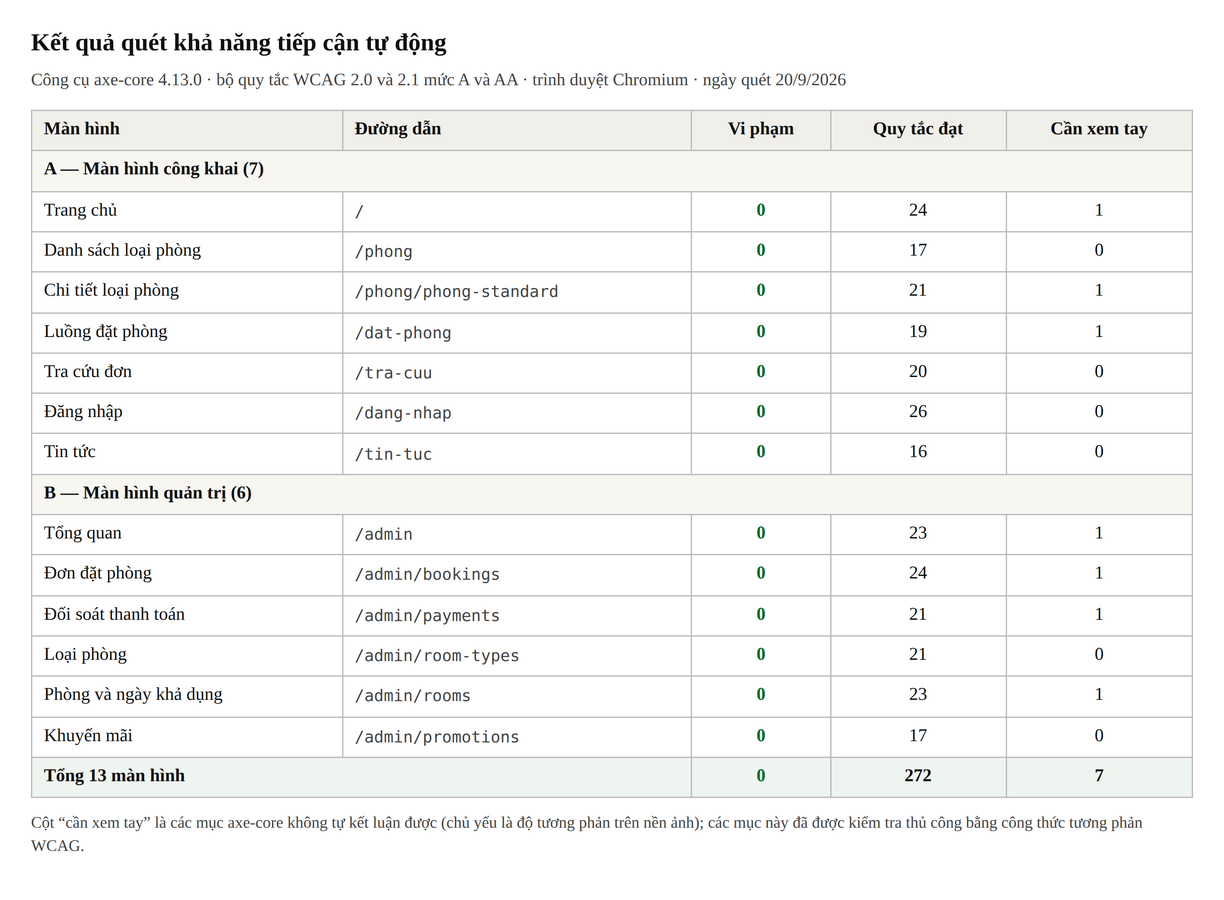
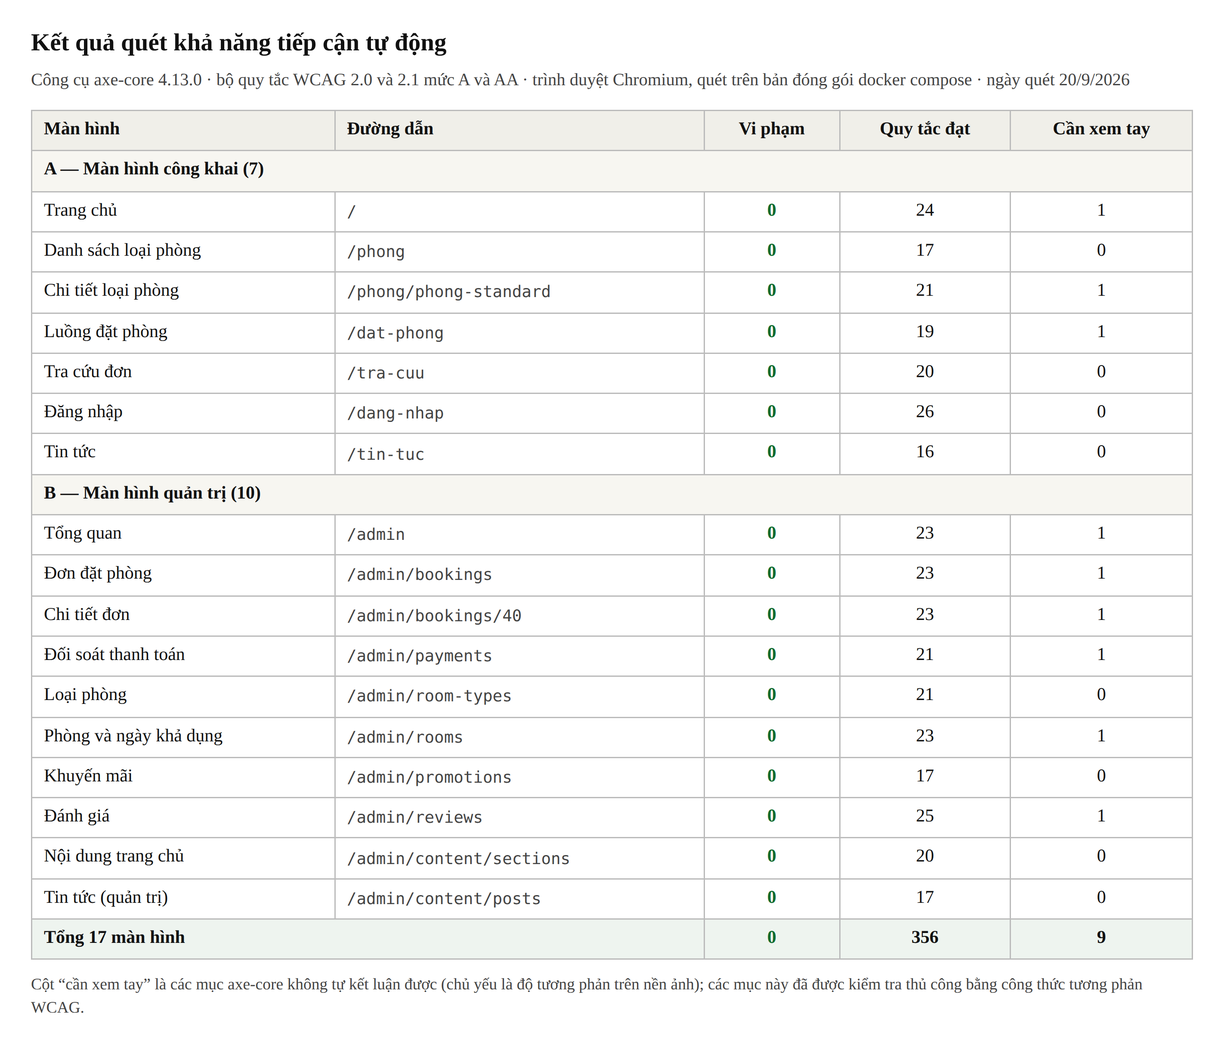
fix(admin): mo duoc chi tiet moi don, va dat ten cho o chon tep anh
Hai loi tim ra trong luc chup anh man hinh cho bao cao.

1. Danh sach don ghi "Bam vao ma don de mo chi tiet" nhung o ma don la o
   bang thuong. Chi mot lien ket vi du duoi bang mo duoc don DAU TIEN;
   muoi chin don con lai tren trang khong co loi vao nao. Them truong
   link tuy chon cho TableColumn cua ui-data-table: cot nao khong khai
   link giu nguyen nhu cu, cot co khai render the a that — di duoc bang
   Tab, trinh doc man hinh doc ra la lien ket, chuot giua mo tab moi.

2. O chon tep cua image-picker an bang sr-only nhung van nam trong thu tu
   Tab, thanh mot diem dung khong ten. axe-core bao loi label muc critical
   o bon cho tren man hinh noi dung trang chu. Bo o khoi thu tu Tab va dat
   aria-label; nut "Tai anh len" nhin thay duoc van la loi vao that.

Kiem chung tren ban dong goi dang chay, di qua nginx va CSP that:

- 20/20 ma don thanh the a co href; bam hang thu ba mo dung don thu ba.
- Quet axe-core 17 man hinh (7 cong khai, 10 quan tri): 0 vi pham WCAG
  2.0 va 2.1 muc A va AA, 356 lan quy tac dat. Truoc khi sua la 1 vi pham
  critical x4.
- npm run lint va npm run build deu sach.

Cap nhat muc 4.3 cua bao cao len muoi mot loi, muc 4.4.1 len 17 man hinh,
va sua mot cau mo ta sai Hinh 3.19.

Claude-Session: https://claude.ai/code/session_01AEgUuwxWZb75UPoWigF6iK

diff --git a/frontend/src/app/features/admin/bookings/admin-bookings.ts b/frontend/src/app/features/admin/bookings/admin-bookings.ts
@@ -1,5 +1,5 @@
 import { ChangeDetectionStrategy, Component, computed, inject, signal } from '@angular/core';
-import { ActivatedRoute, Router, RouterLink } from '@angular/router';
+import { ActivatedRoute, Router } from '@angular/router';
 import { AdminBookingService, type BookingFilter } from '../../../core/services/admin-booking.service';
 import type { AdminBookingRow, Page } from '../../../core/services/admin.types';
 import {
@@ -38,7 +38,7 @@ const MONEY = new Intl.NumberFormat('vi-VN', { maximumFractionDigits: 0 });
 @Component({
   selector: 'app-admin-bookings',
   changeDetection: ChangeDetectionStrategy.OnPush,
-  imports: [RouterLink, UiDataTable, UiFilterChips, UiPagination, UiSelect, UiInput, UiButton],
+  imports: [UiDataTable, UiFilterChips, UiPagination, UiSelect, UiInput, UiButton],
   template: `
     <div class="mb-4 flex flex-wrap items-end justify-between gap-3">
       <h1 class="text-xl font-bold text-text">Đơn đặt phòng</h1>
@@ -89,14 +89,7 @@ const MONEY = new Intl.NumberFormat('vi-VN', { maximumFractionDigits: 0 });
       }
     }
 
-    <p class="mt-3 text-sm text-text-muted">
-      Bấm vào mã đơn để mở chi tiết.
-      @if (rows().length) {
-        <a
-          [routerLink]="['/admin/bookings', rows()[0].id]"
-          class="ml-1 text-focus underline">Ví dụ: {{ rows()[0].code }}</a>
-      }
-    </p>
+    <p class="mt-3 text-sm text-text-muted">Bấm vào mã đơn để mở chi tiết đơn.</p>
   `,
 })
 export class AdminBookings {
@@ -120,7 +113,14 @@ export class AdminBookings {
   );
 
   protected readonly columns: TableColumn<AdminBookingRow>[] = [
-    { key: 'code', header: 'Mã đơn', value: (row) => row.code },
+    {
+      key: 'code',
+      header: 'Mã đơn',
+      value: (row) => row.code,
+      // Dòng chữ dưới bảng nói "bấm vào mã đơn để mở chi tiết"; đây là thứ làm
+      // câu đó đúng cho MỌI hàng, không chỉ hàng đầu.
+      link: (row) => ['/admin/bookings', row.id],
+    },
     { key: 'guest', header: 'Khách', value: (row) => `${row.guestName} · ${row.guestPhone}` },
     { key: 'roomType', header: 'Loại phòng', value: (row) => row.roomTypeName },
     { key: 'stay', header: 'Lưu trú', value: (row) => `${row.checkIn} → ${row.checkOut}` },

diff --git a/frontend/src/app/shared/ui/data-table/data-table.ts b/frontend/src/app/shared/ui/data-table/data-table.ts
@@ -1,4 +1,5 @@
 import { ChangeDetectionStrategy, Component, computed, input, output } from '@angular/core';
+import { RouterLink } from '@angular/router';
 import { UiSkeleton } from '../skeleton/skeleton';
 import { UiEmptyState } from '../empty-state/empty-state';
 
@@ -10,6 +11,14 @@ export interface TableColumn<T> {
   sortable?: boolean;
   /** Căn phải cho cột số — mắt so sánh số theo hàng đơn vị, không theo chữ đầu. */
   numeric?: boolean;
+  /**
+   * Biến ô thành liên kết tới tuyến trong ứng dụng.
+   *
+   * <p>Là một thẻ `<a>` thật chứ không phải ô bắt sự kiện bấm: người dùng bàn
+   * phím tới được bằng Tab, trình đọc màn hình đọc ra là liên kết, và mở tab
+   * mới bằng chuột giữa vẫn chạy. Ô nào không khai `link` giữ nguyên như cũ.
+   */
+  link?: (row: T) => readonly unknown[];
 }
 
 export interface SortState {
@@ -33,7 +42,7 @@ export interface SortState {
 @Component({
   selector: 'ui-data-table',
   changeDetection: ChangeDetectionStrategy.OnPush,
-  imports: [UiSkeleton, UiEmptyState],
+  imports: [UiSkeleton, UiEmptyState, RouterLink],
   template: `
     @if (error(); as message) {
       <div class="rounded-md border border-danger bg-surface p-4" role="alert">
@@ -93,9 +102,15 @@ export interface SortState {
                          hover:bg-surface-2">
                   @for (column of columns(); track column.key) {
                     <td
-                      tabindex="0"
+                      [attr.tabindex]="column.link ? null : 0"
                       [class]="cellClass() + ' ' + (column.numeric ? 'text-right tabular-nums' : '')">
-                      {{ column.value(row) }}
+                      @if (column.link; as target) {
+                        <a [routerLink]="target(row)" class="text-focus underline">
+                          {{ column.value(row) }}
+                        </a>
+                      } @else {
+                        {{ column.value(row) }}
+                      }
                     </td>
                   }
                 </tr>

diff --git a/frontend/src/app/features/admin/content/image-picker.ts b/frontend/src/app/features/admin/content/image-picker.ts
@@ -33,11 +33,18 @@ export interface PickedImage {
         (valueChange)="onUrlTyped($event)" />
 
       <div class="flex flex-wrap items-center gap-2">
+        <!-- Ô chọn tệp thật bị ẩn vì nút bên dưới mới là thứ người dùng thấy.
+             Ẩn bằng sr-only KHÔNG đủ: ô vẫn nằm trong thứ tự Tab, nên người
+             dùng bàn phím gặp hai điểm dừng cho một việc, và điểm dừng ẩn đó
+             không có tên để trình đọc màn hình đọc ra. tabindex="-1" bỏ nó
+             khỏi thứ tự Tab, aria-label đặt tên cho những lối vào còn lại. -->
         <input
           #file
           type="file"
           accept="image/jpeg,image/png,image/webp"
           class="sr-only"
+          tabindex="-1"
+          [attr.aria-label]="'Chọn tệp ảnh cho ' + label()"
           (change)="upload($event)" />
         <ui-button variant="secondary" [loading]="uploading()" (pressed)="file.click()">
           Tải ảnh lên

diff --git a/docs/bao-cao/04a-chuong-3-thiet-ke.md b/docs/bao-cao/04a-chuong-3-thiet-ke.md
@@ -33,75 +33,11 @@ Hình 3.1 thể hiện biểu đồ use case tổng quát của hệ thống.
 
 ### 3.1.3. Đặc tả use case
 
-Hai use case trọng tâm được đặc tả đầy đủ dưới đây theo khuôn mẫu: tác nhân,
-tiền điều kiện, luồng chính, luồng thay thế, hậu điều kiện. Đặc tả của chín use
-case còn lại trình bày ở Phụ lục A.
-
----
-
-### UC1 — Tìm phòng trống
-
-| Mục | Nội dung |
-|---|---|
-| **Mã** | UC1 |
-| **Tác nhân chính** | Khách vãng lai, Khách có tài khoản |
-| **Mô tả** | Khách tìm các loại phòng còn chỗ trong một khoảng ngày |
-| **Tiền điều kiện** | Có ít nhất một loại phòng đang bật bán |
-| **Hậu điều kiện** | Không có dữ liệu nào được ghi; đây là truy vấn chỉ đọc |
-
-**Luồng sự kiện chính**
-
-1. Khách mở trang chủ; thanh tìm phòng nạp sẵn lịch của toàn homestay.
-2. Khách chọn ngày nhận và ngày trả. Ngày quá khứ và ngày đã kín mọi loại phòng
-   bị chặn ngay trong lịch, không cho chọn.
-3. Khách chọn số người lớn, trẻ em, số phòng.
-4. Hệ thống truy vấn và trả về các loại phòng còn chỗ, kèm tổng tiền cả kỳ và số
-   phòng còn lại của từng loại.
-
-**Luồng thay thế**
-
-- *2a. Lịch không tải được:* khách vẫn chọn được ngày; mất phần chặn trước, tầng
-  máy chủ vẫn từ chối ngày kín ở bước sau.
-- *4a. Không loại phòng nào đủ chỗ:* hiện trạng thái rỗng kèm gợi ý đổi ngày
-  hoặc giảm số khách mỗi phòng.
-
----
-
-### UC2 — Đặt phòng
-
-| Mục | Nội dung |
-|---|---|
-| **Mã** | UC2 |
-| **Tác nhân chính** | Khách vãng lai, Khách có tài khoản |
-| **Mô tả** | Khách gửi yêu cầu đặt phòng cho một khoảng ngày và nhận mã đơn |
-| **Tiền điều kiện** | Đã hoàn tất UC1 và chọn được một loại phòng còn chỗ |
-| **Hậu điều kiện** | Đơn ở trạng thái `PENDING_PAYMENT`; các phòng vật lý đã được gán; hạn giữ chỗ 15 phút bắt đầu chạy |
-
-**Luồng sự kiện chính**
-
-1. Khách nhập họ tên, số điện thoại, thư điện tử và ghi chú nếu có.
-2. Khách nhập mã khuyến mãi tuỳ chọn; hệ thống kiểm tra và hiển thị ngay số tiền
-   được giảm.
-3. Khách xác nhận đơn.
-4. Hệ thống mở một giao dịch, tính lại chi phí ở phía máy chủ, không tin số tiền
-   do trình duyệt gửi lên.
-5. Hệ thống chọn các phòng vật lý còn rảnh và ghi vào bảng gán phòng.
-6. Cơ sở dữ liệu kiểm tra ràng buộc loại trừ. Nếu không vi phạm, giao dịch được
-   commit.
-7. Hệ thống sinh mã đơn, mã truy cập, thông tin thanh toán và trả về cho khách.
-8. Hệ thống đưa thư xác nhận vào hàng đợi gửi.
-
-**Luồng thay thế và ngoại lệ**
-
-- *4a. Dữ liệu không hợp lệ* (ngày trả không sau ngày nhận, số khách vượt sức
-  chứa mỗi phòng) → trả lỗi `INVALID_BOOKING_REQUEST` mã 400, không ghi gì.
-- *2a. Mã khuyến mãi không hợp lệ* → `INVALID_PROMOTION` mã 400.
-- *2b. Mã khuyến mãi hết lượt* → `PROMOTION_EXHAUSTED` mã 409.
-- **6a. Ràng buộc loại trừ bị vi phạm** — một khách khác vừa đặt xong phòng đó
-  trong tích tắc. Cơ sở dữ liệu trả `SQLSTATE 23P01`, giao dịch bị huỷ. Hệ thống
-  mở **giao dịch mới** và thử phòng vật lý tiếp theo. Hết phòng để thử thì trả
-  `ROOM_NOT_AVAILABLE` mã 409.
-- *5a. Vượt giới hạn tần suất* → `TOO_MANY_REQUESTS` mã 429.
+Đặc tả đầy đủ của **cả mười một use case** — tác nhân, tiền điều kiện, luồng
+chính, luồng thay thế, hậu điều kiện — trình bày ở Phụ lục A. Hai use case trọng
+tâm là UC1 *Tìm phòng trống* và UC2 *Đặt phòng*: UC1 là nơi truy vấn còn phòng
+chạy, UC2 là nơi ràng buộc loại trừ của cơ sở dữ liệu ra quyết định cuối cùng
+khi hai khách cùng đặt một phòng.
 
 ## 3.2. Thiết kế cơ sở dữ liệu
 
@@ -130,8 +66,6 @@ Hình 3.3 thể hiện chi tiết nhóm bảng đặt phòng, nơi đặt ràng 
 nhất của hệ thống.
 
 [Hình 3.3]
-
-### 3.2.2. Mô tả chi tiết các bảng
 
 ### 3.2.2. Mô tả bốn bảng cốt lõi
 

diff --git a/docs/bao-cao/08a-phu-luc-dac-ta.md b/docs/bao-cao/08a-phu-luc-dac-ta.md
@@ -1,9 +1,76 @@
 # PHỤ LỤC
 
-## Phụ lục A — Đặc tả chín use case còn lại
+## Phụ lục A — Đặc tả mười một use case
 
-Hai use case trọng tâm (UC1, UC2) đã đặc tả đầy đủ ở mục 3.1.3. Phụ lục này
-trình bày chín use case còn lại theo cùng khuôn mẫu, sắp xếp theo số hiệu.
+Đặc tả đầy đủ của cả mười một use case, theo cùng một khuôn mẫu và sắp xếp theo
+số hiệu: tác nhân chính, mô tả, tiền điều kiện, hậu điều kiện, luồng sự kiện
+chính và các luồng thay thế kèm mã lỗi tương ứng.
+
+#### UC1 — Tìm phòng trống
+
+| Mục | Nội dung |
+|---|---|
+| **Mã** | UC1 |
+| **Tác nhân chính** | Khách vãng lai, Khách có tài khoản |
+| **Mô tả** | Khách tìm các loại phòng còn chỗ trong một khoảng ngày |
+| **Tiền điều kiện** | Có ít nhất một loại phòng đang bật bán |
+| **Hậu điều kiện** | Không có dữ liệu nào được ghi; đây là truy vấn chỉ đọc |
+
+**Luồng sự kiện chính**
+
+1. Khách mở trang chủ; thanh tìm phòng nạp sẵn lịch của toàn homestay.
+2. Khách chọn ngày nhận và ngày trả. Ngày quá khứ và ngày đã kín mọi loại phòng
+   bị chặn ngay trong lịch, không cho chọn.
+3. Khách chọn số người lớn, trẻ em, số phòng.
+4. Hệ thống truy vấn và trả về các loại phòng còn chỗ, kèm tổng tiền cả kỳ và số
+   phòng còn lại của từng loại.
+
+**Luồng thay thế**
+
+- *2a. Lịch không tải được:* khách vẫn chọn được ngày; mất phần chặn trước, tầng
+  máy chủ vẫn từ chối ngày kín ở bước sau.
+- *4a. Không loại phòng nào đủ chỗ:* hiện trạng thái rỗng kèm gợi ý đổi ngày
+  hoặc giảm số khách mỗi phòng.
+
+---
+
+#### UC2 — Đặt phòng
+
+| Mục | Nội dung |
+|---|---|
+| **Mã** | UC2 |
+| **Tác nhân chính** | Khách vãng lai, Khách có tài khoản |
+| **Mô tả** | Khách gửi yêu cầu đặt phòng cho một khoảng ngày và nhận mã đơn |
+| **Tiền điều kiện** | Đã hoàn tất UC1 và chọn được một loại phòng còn chỗ |
+| **Hậu điều kiện** | Đơn ở trạng thái `PENDING_PAYMENT`; các phòng vật lý đã được gán; hạn giữ chỗ 15 phút bắt đầu chạy |
+
+**Luồng sự kiện chính**
+
+1. Khách nhập họ tên, số điện thoại, thư điện tử và ghi chú nếu có.
+2. Khách nhập mã khuyến mãi tuỳ chọn; hệ thống kiểm tra và hiển thị ngay số tiền
+   được giảm.
+3. Khách xác nhận đơn.
+4. Hệ thống mở một giao dịch, tính lại chi phí ở phía máy chủ, không tin số tiền
+   do trình duyệt gửi lên.
+5. Hệ thống chọn các phòng vật lý còn rảnh và ghi vào bảng gán phòng.
+6. Cơ sở dữ liệu kiểm tra ràng buộc loại trừ. Nếu không vi phạm, giao dịch được
+   commit.
+7. Hệ thống sinh mã đơn, mã truy cập, thông tin thanh toán và trả về cho khách.
+8. Hệ thống đưa thư xác nhận vào hàng đợi gửi.
+
+**Luồng thay thế và ngoại lệ**
+
+- *4a. Dữ liệu không hợp lệ* (ngày trả không sau ngày nhận, số khách vượt sức
+  chứa mỗi phòng) → trả lỗi `INVALID_BOOKING_REQUEST` mã 400, không ghi gì.
+- *2a. Mã khuyến mãi không hợp lệ* → `INVALID_PROMOTION` mã 400.
+- *2b. Mã khuyến mãi hết lượt* → `PROMOTION_EXHAUSTED` mã 409.
+- **6a. Ràng buộc loại trừ bị vi phạm** — một khách khác vừa đặt xong phòng đó
+  trong tích tắc. Cơ sở dữ liệu trả `SQLSTATE 23P01`, giao dịch bị huỷ. Hệ thống
+  mở **giao dịch mới** và thử phòng vật lý tiếp theo. Hết phòng để thử thì trả
+  `ROOM_NOT_AVAILABLE` mã 409.
+- *5a. Vượt giới hạn tần suất* → `TOO_MANY_REQUESTS` mã 429.
+
+---
 
 #### UC3 — Thanh toán cọc
 

diff --git a/docs/bao-cao/05-chuong-4.md b/docs/bao-cao/05-chuong-4.md
@@ -73,6 +73,9 @@ tiền biến mất im lặng.
 
 ## 4.3. Các lỗi thực tế phát hiện trong quá trình thực hiện
 
+Mười một lỗi dưới đây đều là lỗi **đã xảy ra thật** trong quá trình làm, kèm
+nguyên nhân gốc chứ không phải triệu chứng.
+
 | # | Hiện tượng | Nguyên nhân gốc | Cách khắc phục |
 |---|---|---|---|
 | 1 | Giao dịch thử phòng tiếp theo luôn thất bại | Bắt lỗi ràng buộc rồi thử tiếp **trong cùng giao dịch**; PostgreSQL đã huỷ giao dịch nên mọi lệnh sau trả `25P02` | Mỗi lượt thử chạy trong một giao dịch mới |
@@ -84,6 +87,8 @@ tiền biến mất im lặng.
 | 7 | Màn hình thanh toán trắng trơn | Component gọi hàm đọc tham số đầu vào **trong hàm khởi tạo**, trước khi khung ứng dụng gán tham số | Chuyển sang phương thức chạy sau khi khởi tạo |
 | 8 | Bộ nạp dữ liệu mẫu cộng dồn mỗi lần khởi động | Điều kiện chống trùng khoá theo ngày tương đối nên mỗi ngày lại khớp khác | Đổi điều kiện sang khoá toàn bảng |
 | 9 | Khu quản trị đóng nhầm phòng không hiển thị | Khối giao diện giữ định danh phòng cũ sau khi bộ lọc của màn hình cha thay đổi | Đối chiếu định danh với danh sách phòng đang hiển thị |
+| 10 | **Danh sách đơn nói "bấm vào mã đơn để mở chi tiết" nhưng không bấm được** | Ô mã đơn là ô bảng thường; chỉ một liên kết ví dụ dưới bảng mở được đơn **đầu tiên**, mười chín đơn còn lại không có lối vào | Thêm kiểu cột liên kết cho bảng dữ liệu dùng chung, mã đơn của mọi hàng thành thẻ liên kết thật |
+| 11 | Ô chọn tệp ảnh không có tên cho trình đọc màn hình | Ô ẩn bằng lớp chỉ-đọc-màn-hình nhưng **vẫn nằm trong thứ tự Tab**, thành một điểm dừng không tên | Bỏ ô khỏi thứ tự Tab và đặt nhãn cho nó; nút bấm nhìn thấy được mới là lối vào |
 
 **Về lỗi số 4 và số 5:** cả hai chỉ phát hiện được khi **chụp màn hình bằng
 trình duyệt thật**. Việc biên dịch thành công không nói gì về việc trang có hiển
@@ -95,13 +100,21 @@ thị đúng hay không. Hình 4.3 so sánh trước và sau khi khắc phục l
 giả đã tự kiểm thử và cho rằng chức năng đã hoàn chỉnh. Đây là lý do đề tài giữ
 bước rà soát độc lập ở cuối mỗi giai đoạn.
 
+**Về lỗi số 10 và số 11:** cả hai lộ ra trong lúc **chụp ảnh màn hình cho báo
+cáo**, không phải trong lúc kiểm thử. Lỗi 10 tìm ra khi một kịch bản tự động thử
+mở chi tiết một đơn bất kỳ và không mở được; lỗi 11 tìm ra khi mở rộng phạm vi
+quét khả năng tiếp cận từ sáu lên mười màn hình quản trị. Bài học giống nhau:
+**một màn hình chưa ai thao tác tới là một màn hình chưa được kiểm.**
+
 ## 4.4. Kiểm thử phi chức năng
 
 ### 4.4.1. Khả năng tiếp cận
 
-Quét tự động trên 7 màn hình công khai và 6 màn hình quản trị: **không còn lỗi
-vi phạm** hướng dẫn khả năng tiếp cận nội dung web phiên bản 2.0 và 2.1 ở mức A
-và AA [13].
+Quét tự động bằng axe-core trên **17 màn hình** — 7 công khai và 10 quản trị —
+ngay trên bản đóng gói đang chạy, đi qua đúng máy chủ web và đúng chính sách bảo
+mật nội dung của bản triển khai: **không còn lỗi vi phạm** hướng dẫn khả năng
+tiếp cận nội dung web phiên bản 2.0 và 2.1 ở mức A và AA [13], trên tổng 356 lần
+quy tắc đạt.
 
 Đo vùng chạm ở 3 độ rộng màn hình: **không còn vùng chạm dưới 44×44 điểm ảnh**.
 

diff --git a/docs/de-cuong-do-an.md b/docs/de-cuong-do-an.md
@@ -93,7 +93,7 @@
 | **1. TỔNG QUAN** | Giới thiệu tổng quan về vấn đề sẽ tập trung nghiên cứu và giải quyết | Bài toán, khảo sát hiện trạng, so sánh hệ thống tương tự, xác định yêu cầu |
 | **2. NGHIÊN CỨU LÝ THUYẾT** | Cơ sở lí thuyết, lí luận, giả thiết khoa học, các công cụ, công nghệ, phần mềm được sử dụng | Kiến trúc tách rời, Java/Spring, Angular, **PostgreSQL: mức cô lập, kiểu khoảng, ràng buộc loại trừ, GiST**, JWT, Flyway, Docker, webhook, Testcontainers |
 | **3. HIỆN THỰC HÓA NGHIÊN CỨU** | Mô tả các bước nghiên cứu đã tiến hành, các bản thiết kế, cách thức cài đặt. Đề tài ứng dụng phải có **hồ sơ thiết kế, cài đặt theo các dạng lược đồ, mô hình phổ biến trong ngành** | Use case, ERD, biểu đồ lớp, biểu đồ trạng thái, biểu đồ tuần tự, kiến trúc phân lớp, thiết kế API, thiết kế giao diện, cài đặt từng chức năng, bảo mật, đóng gói |
-| **4. KẾT QUẢ NGHIÊN CỨU** | Kết quả đạt được. **Có thể đánh giá hiệu năng, trải nghiệm người dùng, hoặc trình bày giao diện chức năng** | 129 ca kiểm thử, 9 lỗi thực tế đã khắc phục, khả năng tiếp cận, bảo mật, đối chiếu mục đích, 7 giới hạn đã biết |
+| **4. KẾT QUẢ NGHIÊN CỨU** | Kết quả đạt được. **Có thể đánh giá hiệu năng, trải nghiệm người dùng, hoặc trình bày giao diện chức năng** | 129 ca kiểm thử, 11 lỗi thực tế đã khắc phục, khả năng tiếp cận, bảo mật, đối chiếu mục đích, 7 giới hạn đã biết |
 | **5. KẾT LUẬN VÀ HƯỚNG PHÁT TRIỂN** | Kết quả đạt được, đóng góp mới, đề xuất mới. **Phần kết luận ngắn gọn, không có lời bàn và bình luận thêm** | Kết luận gọn + 11 hướng phát triển chia ngắn/trung/dài hạn |
 
 ---
@@ -275,13 +275,13 @@ tiêu chí chấm điểm tiến độ**.
 
 1. Mục **2.1** — kiến trúc tách rời. Phần so sánh với kiến trúc nguyên khối có
    thể rút còn 3 câu.
-2. Mục **3.9** — cài đặt từng chức năng. Giữ 3.9.1 (tìm phòng trống) và 3.9.2
-   (vòng thử gán phòng) vì đó là lõi; rút gọn 3.9.3 tới 3.9.6.
+2. Mục **3.8** — cài đặt từng chức năng. Giữ 3.8.1 (tìm phòng trống) và 3.8.2
+   (vòng thử gán phòng) vì đó là lõi; rút gọn 3.8.3 tới 3.8.6.
 3. Mục **1.2.2** — khảo sát người dùng. Ba đoạn mô tả nhóm người dùng có thể gộp
    thành một bảng.
 4. Chuyển **bảng 12 yêu cầu phi chức năng** ở mục 1.4.2 xuống Phụ lục.
 
-**Không cắt** mục 2.4 (PostgreSQL), mục 4.3 (chín lỗi thực tế) và mục 4.7 (bảy
+**Không cắt** mục 2.4 (PostgreSQL), mục 4.3 (mười một lỗi thực tế) và mục 4.7 (bảy
 giới hạn đã biết). Ba mục này là phần làm điểm cao nhất.
 
 ---
@@ -331,7 +331,7 @@ docs/
 │   ├── 02-chuong-1.md         ← CHƯƠNG 1. TỔNG QUAN
 │   ├── 03-chuong-2.md         ← CHƯƠNG 2. NGHIÊN CỨU LÝ THUYẾT
 │   ├── 04a-chuong-3-thiet-ke.md   ← CHƯƠNG 3, mục 3.1–3.6
-│   ├── 04b-chuong-3-cai-dat.md    ← CHƯƠNG 3, mục 3.7–3.11
+│   ├── 04b-chuong-3-cai-dat.md    ← CHƯƠNG 3, mục 3.7–3.10
 │   ├── 05-chuong-4.md         ← CHƯƠNG 4. KẾT QUẢ NGHIÊN CỨU
 │   ├── 06-chuong-5.md         ← CHƯƠNG 5. KẾT LUẬN VÀ HƯỚNG PHÁT TRIỂN
 │   ├── 07-tai-lieu-tham-khao.md   ← IEEE, 14 mục

diff --git a/docs/bao-cao/03-chuong-2.md b/docs/bao-cao/03-chuong-2.md
@@ -278,7 +278,7 @@ bề mặt tấn công hơn. Docker Compose mô tả nhiều dịch vụ trong m
 Hệ thống gồm bốn dịch vụ: máy chủ web, ứng dụng, cơ sở dữ liệu và máy chủ thư
 giả lập. **Chỉ máy chủ web và giao diện xem thư mở cổng ra máy chủ**; ứng dụng và
 cơ sở dữ liệu không mở cổng nào, và đây là điều kiện để tin được thông tin địa
-chỉ mà máy chủ web chuyển tiếp, giải thích ở mục 3.10.3.
+chỉ mà máy chủ web chuyển tiếp, giải thích ở mục 3.9.3.
 
 ## 2.8. Thanh toán qua mã QR và webhook
 
